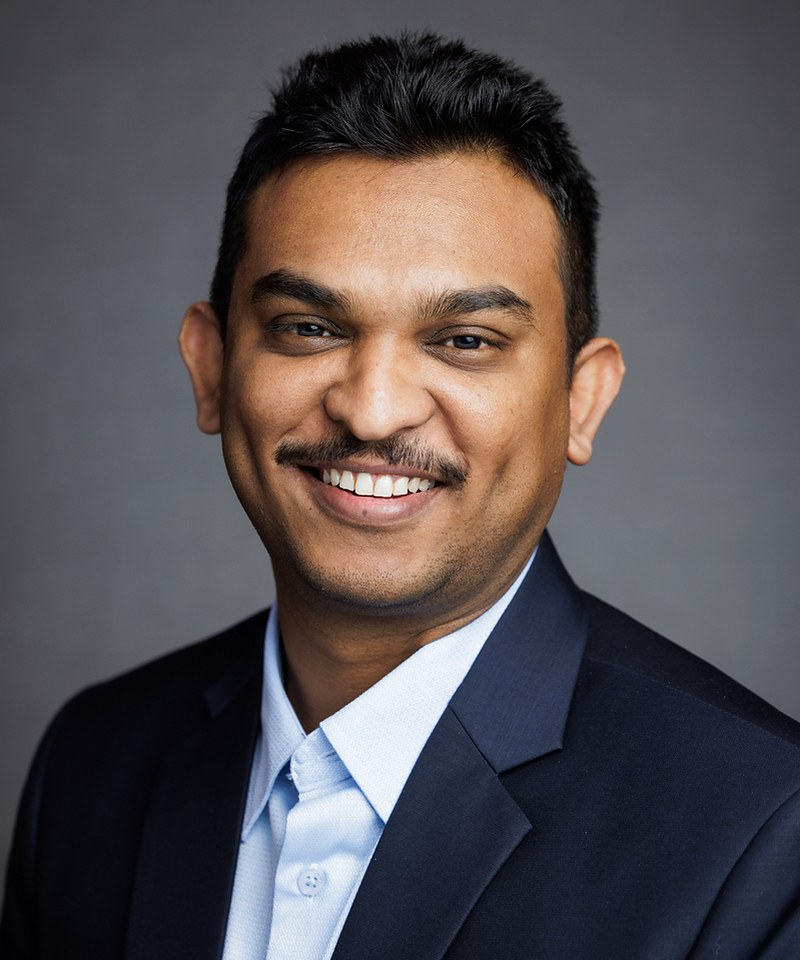
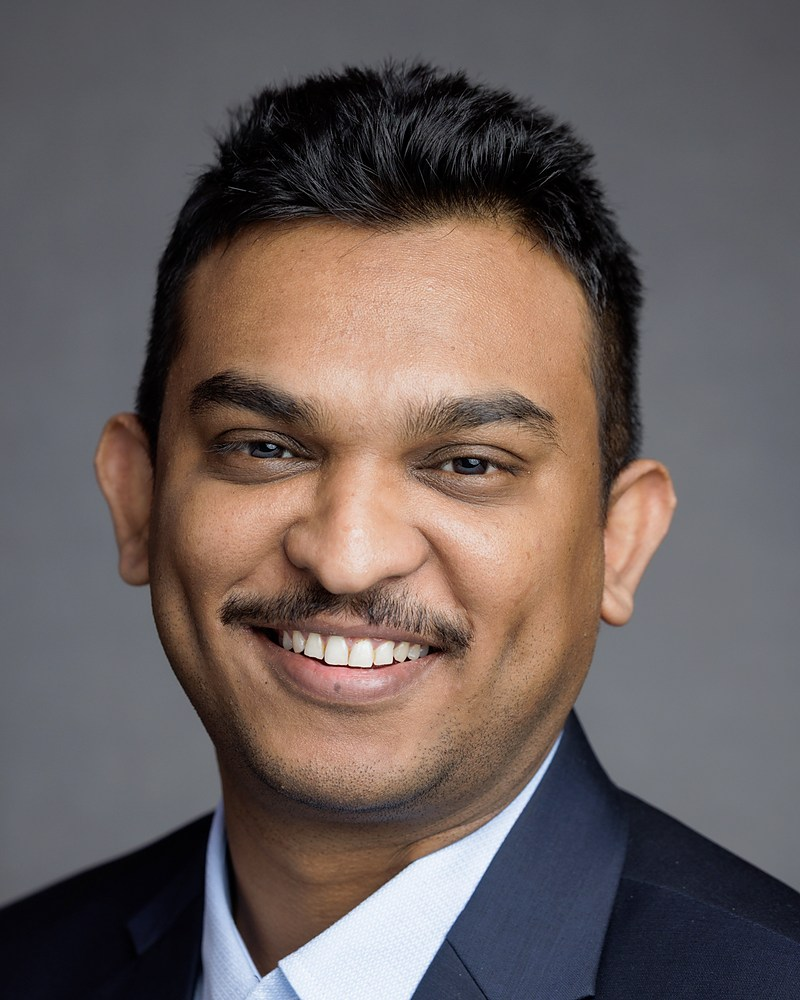
Add files via upload

diff --git a/index.html b/index.html
@@ -110,7 +110,7 @@ a:focus-visible{outline:2px solid var(--accent);outline-offset:3px;border-radius
   <h1 class="name">Sajjad Ahamed</h1>
   <p class="tagline">International Security &middot; Nuclear Deterrence &middot; Strategic Stability</p>
 
-  <img class="headshot" src="assets/headshot.jpg" alt="Portrait of Sajjad Ahamed" width="800" height="960">
+  <img class="headshot" src="assets/headshot.jpg" alt="Portrait of Sajjad Ahamed" width="800" height="1000">
 
   <p>I am a PhD candidate in Political Science at Wayne State University in Detroit. My research sits at the intersection of international security, nuclear deterrence, and strategic stability, with a focus on great-power competition among the United States, China, and Russia.</p>
 
